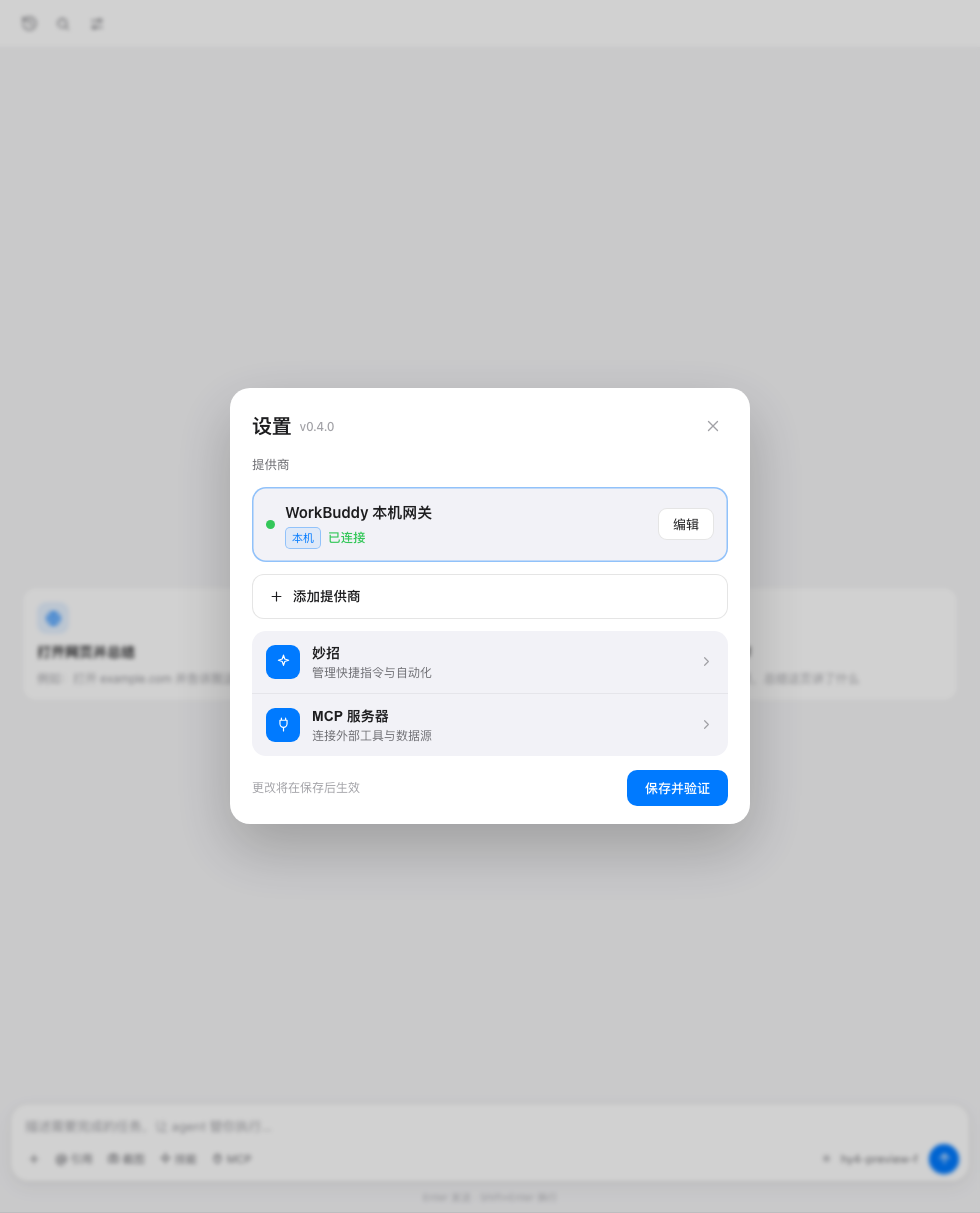
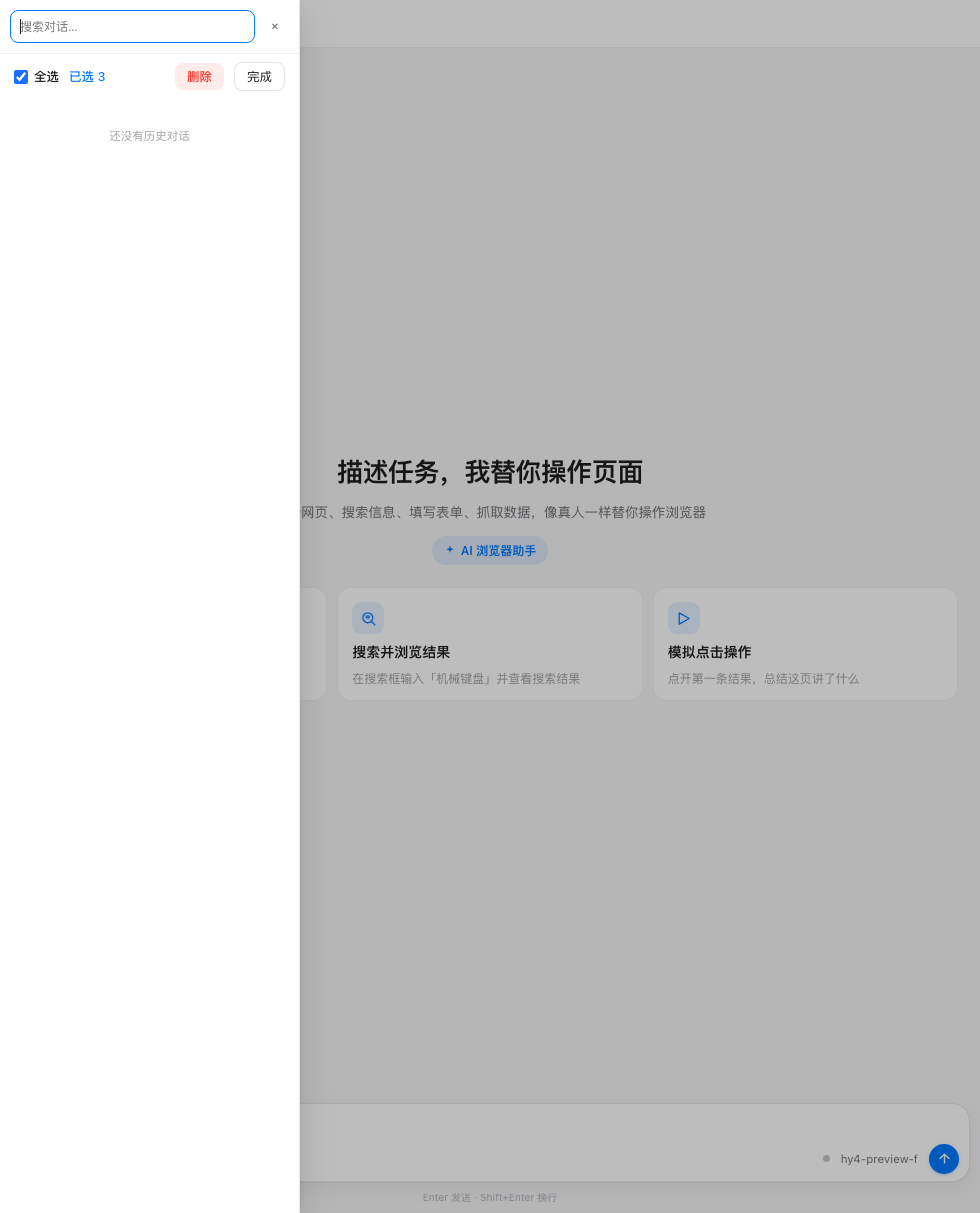
feat: 历史对话抽屉新增批量删除（管理入口/圈选/全选/已选计数/删除/完成）

diff --git a/extension/sidepanel.js b/extension/sidepanel.js
@@ -1581,9 +1581,18 @@ async function pageHost() {
   }
 }
 
+let drawerBatchMode = false;
+let drawerSel = new Set();
+
 function sessRow(s) {
   const row = document.createElement('div');
-  row.className = 'sess' + (s.id === sessionId ? ' on' : '');
+  row.className = 'sess' + (s.id === sessionId ? ' on' : '') + (drawerBatchMode && drawerSel.has(s.id) ? ' picked' : '');
+  if (drawerBatchMode) {
+    const cb = document.createElement('span');
+    cb.className = 'sess-cb' + (drawerSel.has(s.id) ? ' on' : '');
+    cb.innerHTML = '<svg width="11" height="11" viewBox="0 0 24 24" fill="none" stroke="currentColor" stroke-width="3" stroke-linecap="round" stroke-linejoin="round"><path d="M5 13l4 4L19 7"/></svg>';
+    row.appendChild(cb);
+  }
 
   const t = document.createElement('span');
   t.className = 'sess-t';
@@ -1602,7 +1611,17 @@ function sessRow(s) {
   more.addEventListener('click', (e) => { e.stopPropagation(); openSessMenu(more, s); });
 
   row.append(t, d, more);
-  row.addEventListener('click', () => openSession(s.id));
+  row.addEventListener('click', () => {
+    if (drawerBatchMode) {
+      drawerSel.has(s.id) ? drawerSel.delete(s.id) : drawerSel.add(s.id);
+      const batch = document.getElementById('drawerBatch');
+      const cnt = document.getElementById('dbCount');
+      if (cnt) cnt.textContent = '已选 ' + drawerSel.size;
+      renderDrawer(document.getElementById('inpSearch').value);
+      return;
+    }
+    openSession(s.id);
+  });
   return row;
 }
 
@@ -1693,6 +1712,17 @@ async function renderDrawer(q = '') {
     return;
   }
 
+  const db = document.getElementById('drawerBatch');
+  if (db) {
+    db.classList.toggle('hidden', !drawerBatchMode);
+    const cnt = document.getElementById('dbCount');
+    if (cnt) cnt.textContent = '已选 ' + drawerSel.size;
+    const all = document.getElementById('cbDrawerAll');
+    if (all) all.checked = shown.length > 0 && shown.every((s) => drawerSel.has(s.id));
+  }
+  const mg = document.getElementById('btnDrawerManage');
+  if (mg) mg.classList.toggle('hidden', drawerBatchMode);
+
   const host = await pageHost();
   const related = host ? shown.filter((s) => s.host === host) : [];
 
@@ -1708,6 +1738,52 @@ function closePops() {
   closeDrawer();
 }
 
+async function drawerBatchDelete() {
+  if (!drawerSel.size) return;
+  const list = await loadSessions();
+  const del = new Set(drawerSel);
+  await saveSessions(list.filter((s) => !del.has(s.id)));
+  drawerSel.clear();
+  if (del.has(sessionId)) {
+    sessionId = Date.now().toString(36);
+    messages = [];
+    lastShot = null;
+    setDot('idle');
+    setStatus('');
+    render();
+  }
+  await renderDrawer(document.getElementById('inpSearch').value);
+}
+function drawerBatchExit() {
+  drawerBatchMode = false;
+  drawerSel.clear();
+  document.getElementById('drawerBatch')?.classList.add('hidden');
+  document.getElementById('btnDrawerManage')?.classList.remove('hidden');
+  renderDrawer(document.getElementById('inpSearch').value);
+}
+document.getElementById('btnDrawerManage')?.addEventListener('click', () => {
+  drawerBatchMode = true;
+  drawerSel.clear();
+  closeSessMenu();
+  renderDrawer(document.getElementById('inpSearch').value);
+});
+document.getElementById('btnDrawerDone')?.addEventListener('click', drawerBatchExit);
+document.getElementById('cbDrawerAll')?.addEventListener('change', async (e) => {
+  const list = await loadSessions();
+  const kw = String(document.getElementById('inpSearch').value || '').trim().toLowerCase();
+  const shown = kw
+    ? list.filter((s) => String(s.title || '').toLowerCase().includes(kw) || JSON.stringify(s.messages || []).toLowerCase().includes(kw))
+    : list;
+  if (e.target.checked) shown.forEach((s) => drawerSel.add(s.id));
+  else drawerSel.clear();
+  renderDrawer(document.getElementById('inpSearch').value);
+});
+document.getElementById('btnDrawerDelete')?.addEventListener('click', () => {
+  const n = drawerSel.size;
+  if (!n) return;
+  if (confirm('确定删除选中的 ' + n + ' 个对话？删除后不可恢复。')) drawerBatchDelete();
+});
+
 async function openDrawer() {
   modelMenu.classList.add('hidden');
   skillMenu.classList.add('hidden');
@@ -1722,6 +1798,7 @@ async function openDrawer() {
 function closeDrawer() {
   scrimEl.classList.add('hidden');
   drawerEl.classList.add('hidden');
+  drawerBatchExit();
 }
 
 /* ══ 模型切换 ═════════════════════════════════════════════ */

diff --git a/extension/sidepanel.css b/extension/sidepanel.css
@@ -1700,3 +1700,18 @@ body {
   font-size: 12.5px; color: var(--text-dim); cursor: pointer;
 }
 .wl-chip:hover { border-color: var(--line); color: var(--text); }
+
+/* 抽屉批量删除 */
+.drawer-batch { flex: 0 0 auto; display: flex; align-items: center; gap: 10px; padding: 8px 14px 6px; font-size: 12.5px; color: var(--text-dim); }
+.drawer-batch.hidden { display: none; }
+.db-check { display: flex; align-items: center; gap: 6px; cursor: pointer; color: var(--text); font-weight: 500; }
+.db-check input { accent-color: #1B6EFF; width: 14px; height: 14px; }
+.db-count { color: var(--accent); font-weight: 500; }
+.db-flex { flex: 1; }
+.db-del { border: 0; background: rgba(255,59,48,.1); color: var(--danger); font-size: 12.5px; font-weight: 500; border-radius: 8px; padding: 5px 12px; cursor: pointer; }
+.db-del:hover { background: rgba(255,59,48,.18); }
+.db-done { border: 1px solid var(--line); background: #fff; color: var(--text); font-size: 12.5px; border-radius: 8px; padding: 5px 12px; cursor: pointer; }
+.sess.picked { background: rgba(27,110,255,.08); }
+.sess.picked .sess-t { color: var(--accent); }
+.sess-cb { flex: none; width: 17px; height: 17px; border-radius: 50%; border: 1.5px solid #c9c9ce; background: #fff; display: inline-flex; align-items: center; justify-content: center; color: #fff; }
+.sess-cb.on { background: #1B6EFF; border-color: #1B6EFF; }

diff --git a/extension/sidepanel.html b/extension/sidepanel.html
@@ -143,7 +143,17 @@
   <aside id="drawer" class="drawer hidden">
     <div class="drawer-head">
       <input id="inpSearch" type="text" placeholder="搜索对话…" spellcheck="false">
+      <button id="btnDrawerManage" class="icon-btn" title="批量删除" aria-label="批量删除">
+        <svg width="15" height="15" viewBox="0 0 24 24" fill="none" stroke="currentColor" stroke-width="1.9" stroke-linecap="round" stroke-linejoin="round"><rect x="3" y="4" width="8" height="8" rx="2"/><path d="M16 8h5M21 3v5" opacity="0"/><path d="M6.5 8l1.6 1.6L11 6.7"/><path d="M15 8h6M3 15h8M3 19h8"/></svg>
+      </button>
       <button id="btnCloseDrawer" class="icon-btn" aria-label="关闭">×</button>
+    </div>
+    <div id="drawerBatch" class="drawer-batch hidden">
+      <label class="db-check"><input type="checkbox" id="cbDrawerAll">全选</label>
+      <span id="dbCount" class="db-count">已选 0</span>
+      <span class="db-flex"></span>
+      <button id="btnDrawerDelete" class="db-del" type="button">删除</button>
+      <button id="btnDrawerDone" class="db-done" type="button">完成</button>
     </div>
     <div id="sessionList" class="sessions"></div>
   </aside>
